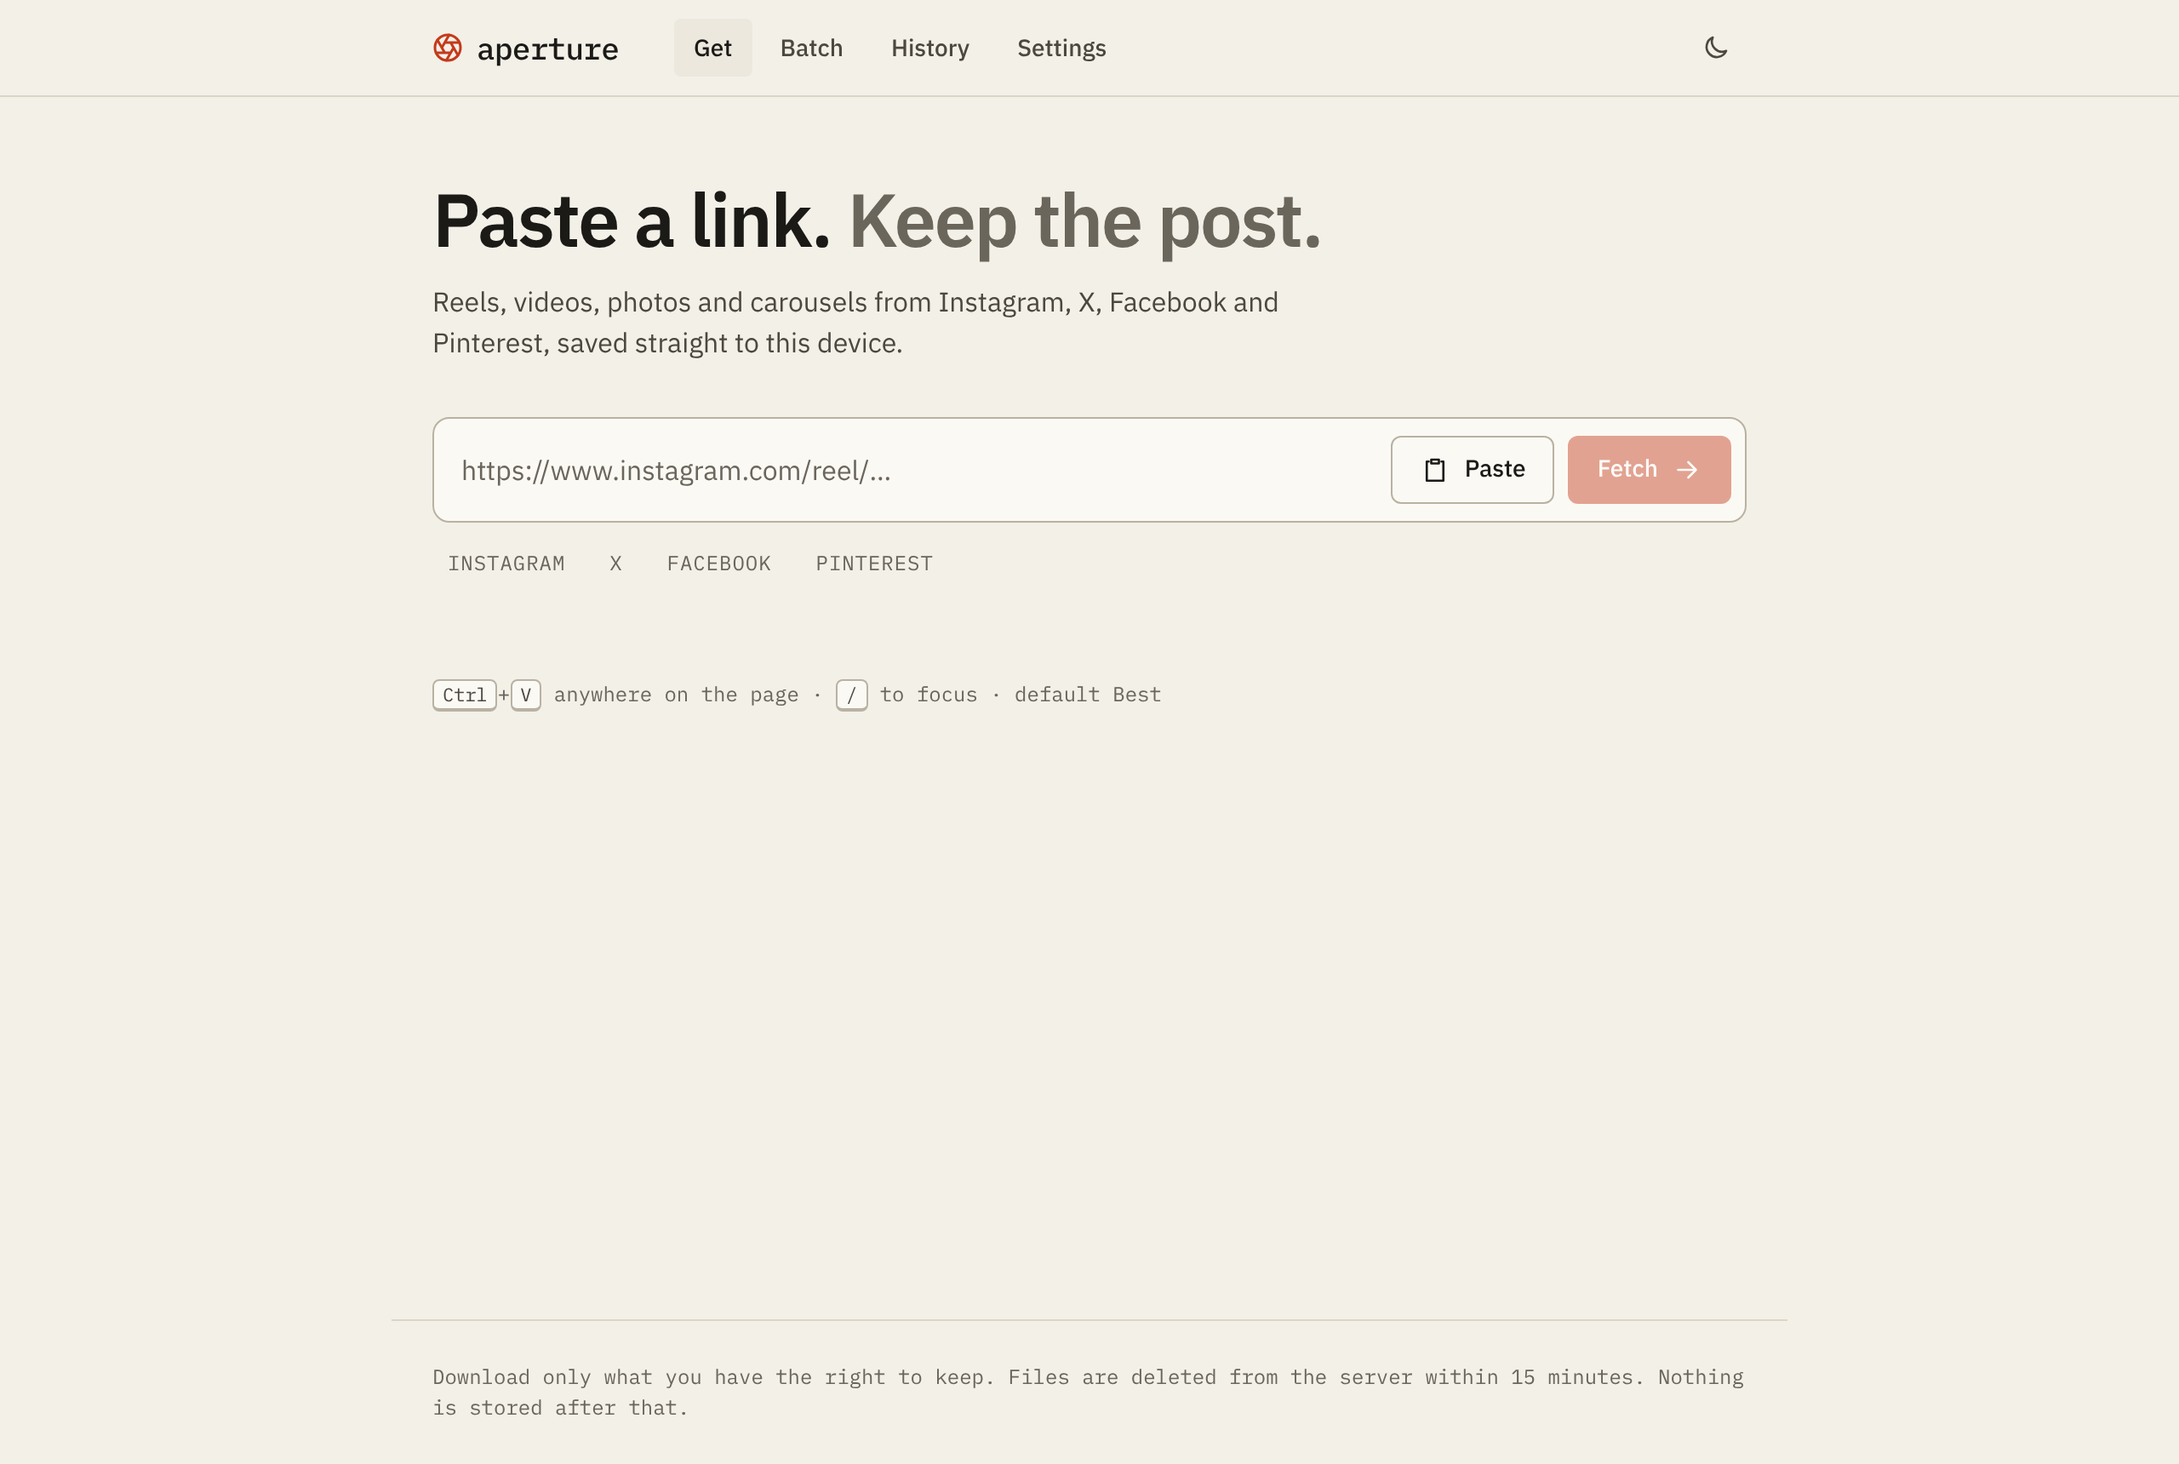
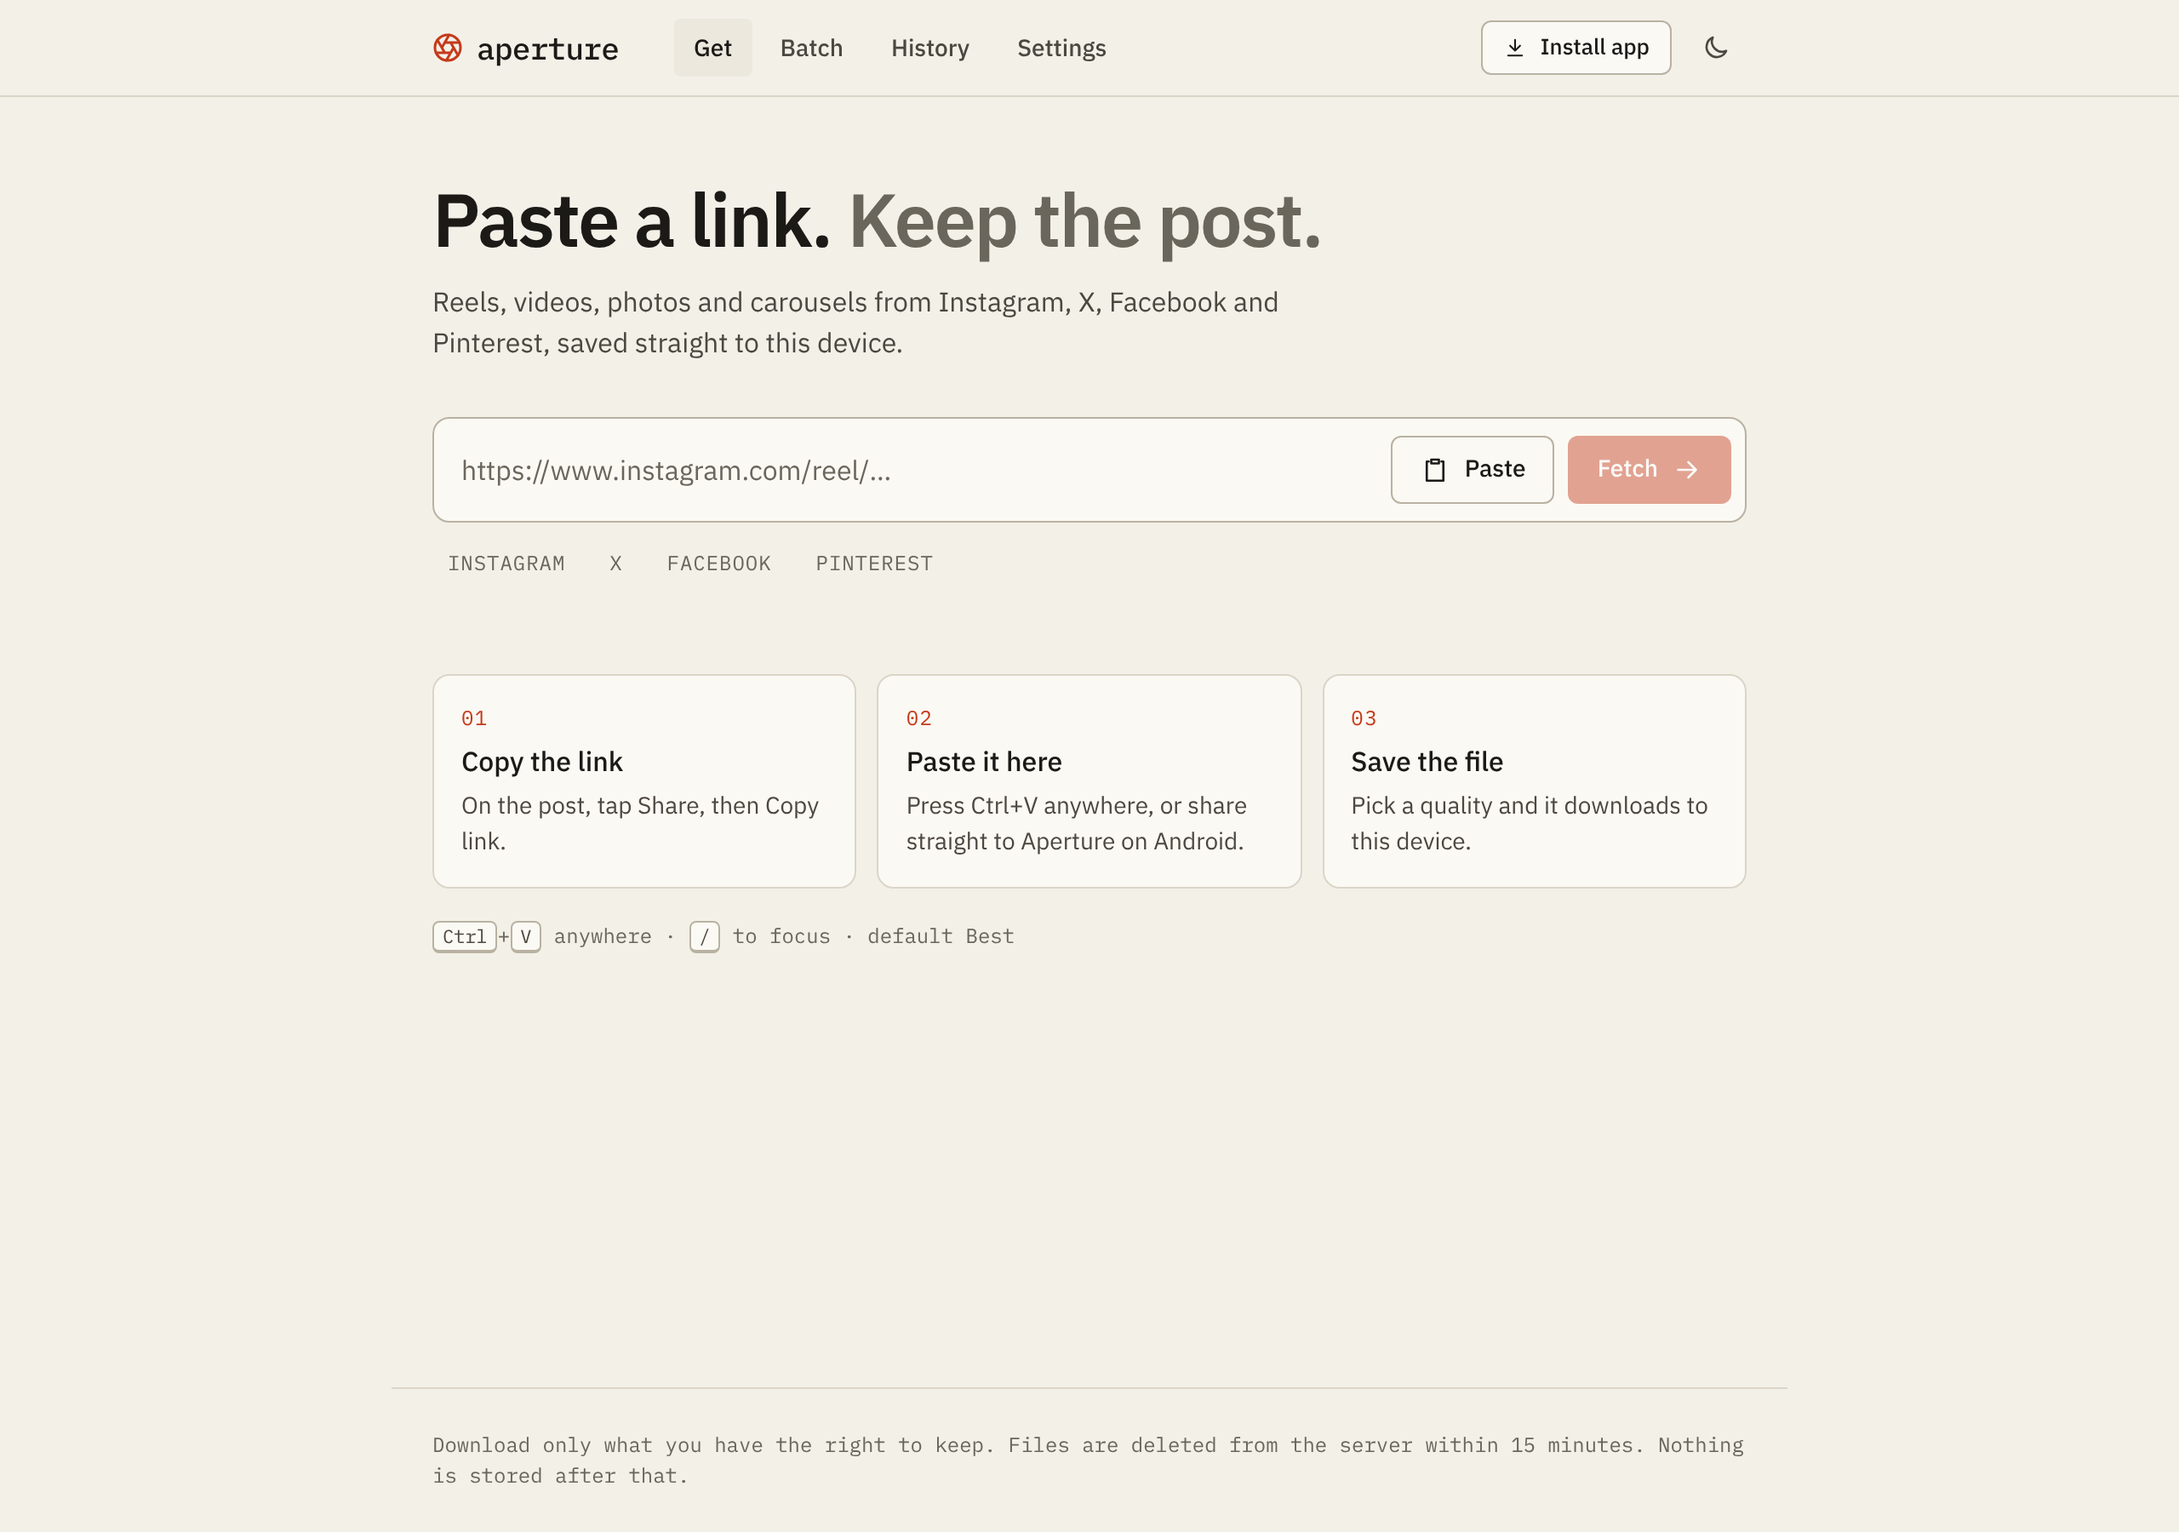
UI polish and richer README
UI:
- Previews hug the image: vertical reels show as tall cards, no grey bars
- 'Install app' button when Brave/Chrome offer installation
- Three-step 'how it works' in the empty state (compact rows on phones)
- Footer: source code and 'report a problem' links

README: animated demo, quick nav, install-as-an-app section, FAQ,
refreshed screenshots

Claude-Session: https://claude.ai/code/session_018MtnHk1n19KBwJH2ow5cQU

diff --git a/web/src/App.tsx b/web/src/App.tsx
@@ -9,6 +9,7 @@ import { LinkForm } from './components/LinkForm'
 import { Notice } from './components/Notice'
 import { ResultSkeleton, ResultView } from './components/ResultView'
 import { SettingsView } from './components/SettingsView'
+import { useInstallPrompt } from './hooks/useInstallPrompt'
 import { useJobs, type TrackedJob } from './hooks/useJobs'
 import { useStoredState } from './hooks/useStoredState'
 import { api, ApiError, type AppInfo, type MediaItem, type Probe, type Session } from './lib/api'
@@ -65,6 +66,7 @@ function Aperture() {
   const [info, setInfo] = useState<AppInfo | null>(null)
   const inputRef = useRef<HTMLInputElement>(null)
   const fetchSeq = useRef(0)
+  const install = useInstallPrompt()
 
   useEffect(() => {
     api.info().then(setInfo).catch(() => {})
@@ -257,13 +259,20 @@ function Aperture() {
               </button>
             ))}
           </nav>
-          <button
-            className="btn-icon btn-quiet theme-toggle"
-            aria-label={darkNow ? 'Switch to light theme' : 'Switch to dark theme'}
-            onClick={() => setSettings((s) => ({ ...s, theme: darkNow ? 'light' : 'dark' }))}
-          >
-            <Icon name={darkNow ? 'sun' : 'moon'} />
-          </button>
+          <div className="topbar-actions">
+            {install && (
+              <button className="btn btn-ghost btn-sm" onClick={install}>
+                <Icon name="download" size={14} /> Install app
+              </button>
+            )}
+            <button
+              className="btn-icon btn-quiet theme-toggle"
+              aria-label={darkNow ? 'Switch to light theme' : 'Switch to dark theme'}
+              onClick={() => setSettings((s) => ({ ...s, theme: darkNow ? 'light' : 'dark' }))}
+            >
+              <Icon name={darkNow ? 'sun' : 'moon'} />
+            </button>
+          </div>
         </div>
       </header>
 
@@ -301,11 +310,30 @@ function Aperture() {
                 />
               )}
               {!loading && !error && !probe && (
-                <p className="tip mono">
-                  <kbd>Ctrl</kbd>+<kbd>V</kbd> anywhere on the page · <kbd>/</kbd> to focus · default{' '}
-                  {QUALITY_LABELS[settings.quality]}
-                  {settings.quickMode ? ' · quick mode on' : ''}
-                </p>
+                <div className="get-empty">
+                  <ol className="steps" aria-label="How it works">
+                    <li>
+                      <span className="step-n mono" aria-hidden="true">01</span>
+                      <strong>Copy the link</strong>
+                      <span>On the post, tap Share, then Copy link.</span>
+                    </li>
+                    <li>
+                      <span className="step-n mono" aria-hidden="true">02</span>
+                      <strong>Paste it here</strong>
+                      <span>Press Ctrl+V anywhere, or share straight to Aperture on Android.</span>
+                    </li>
+                    <li>
+                      <span className="step-n mono" aria-hidden="true">03</span>
+                      <strong>Save the file</strong>
+                      <span>Pick a quality and it downloads to this device.</span>
+                    </li>
+                  </ol>
+                  <p className="tip mono">
+                    <kbd>Ctrl</kbd>+<kbd>V</kbd> anywhere · <kbd>/</kbd> to focus · default{' '}
+                    {QUALITY_LABELS[settings.quality]}
+                    {settings.quickMode ? ' · quick mode on' : ''}
+                  </p>
+                </div>
               )}
             </div>
           </section>
@@ -340,14 +368,19 @@ function Aperture() {
         </p>
         {(info?.contactUrl || info?.repoUrl) && (
           <p className="footer-links">
-            {info?.contactUrl && (
-              <a href={info.contactUrl} target="_blank" rel="noopener noreferrer">
-                Copyright / takedown requests
-              </a>
-            )}
             {info?.repoUrl && (
               <a href={info.repoUrl} target="_blank" rel="noopener noreferrer">
                 Source code
+              </a>
+            )}
+            {info?.repoUrl && (
+              <a href={`${info.repoUrl}/issues/new/choose`} target="_blank" rel="noopener noreferrer">
+                Report a problem
+              </a>
+            )}
+            {info?.contactUrl && (
+              <a href={info.contactUrl} target="_blank" rel="noopener noreferrer">
+                Copyright / takedown
               </a>
             )}
           </p>

diff --git a/web/src/styles.css b/web/src/styles.css
@@ -356,7 +356,10 @@ kbd {
   text-align: center;
 }
 
-.theme-toggle {
+.topbar-actions {
+  display: flex;
+  align-items: center;
+  gap: var(--s2);
   margin-left: auto;
 }
 
@@ -545,6 +548,70 @@ kbd {
   margin-top: var(--s5);
 }
 
+/* empty state: three-step how-to */
+.get-empty {
+  display: flex;
+  flex-direction: column;
+  gap: var(--s4);
+}
+
+.steps {
+  display: grid;
+  grid-template-columns: 1fr;
+  gap: var(--s3);
+  margin: 0;
+  padding: 0;
+  list-style: none;
+}
+
+@media (min-width: 640px) {
+  .steps {
+    grid-template-columns: repeat(3, 1fr);
+  }
+}
+
+/* Phones: compact rows (number beside the text) so the steps don't fill the screen. */
+@media (max-width: 639px) {
+  .steps {
+    gap: var(--s2);
+  }
+  ol.steps > li {
+    display: grid;
+    grid-template-columns: 28px 1fr;
+    column-gap: var(--s2);
+    padding: var(--s3);
+  }
+  ol.steps > li > .step-n {
+    grid-row: span 2;
+    padding-top: 3px;
+  }
+}
+
+.steps li {
+  display: flex;
+  flex-direction: column;
+  gap: var(--s1);
+  padding: var(--s4);
+  border: 1px solid var(--line);
+  border-radius: var(--r-l);
+  background: var(--surface);
+}
+
+.steps strong {
+  font-weight: 500;
+}
+
+.steps li > span:last-child {
+  font-size: 14px;
+  color: var(--ink-2);
+}
+
+.step-n {
+  font-size: 12px;
+  letter-spacing: 0.06em;
+  color: var(--accent);
+}
+
 .tip {
   font-size: 12px;
   color: var(--ink-3);
@@ -605,6 +672,23 @@ kbd {
 .thumb-contain {
   aspect-ratio: 16 / 9;
   max-height: 460px;
+}
+
+/* Once the preview has loaded, the frame hugs the image: tall reels stay tall, no grey side bars. */
+.thumb-contain.is-sized {
+  aspect-ratio: auto;
+  width: fit-content;
+  max-width: 100%;
+  margin-inline: auto;
+  background: none;
+}
+
+.thumb-contain.is-sized img {
+  width: auto;
+  height: auto;
+  max-width: 100%;
+  max-height: 460px;
+  border-radius: var(--r-m);
 }
 
 .thumb-cover {

diff --git a/web/src/components/Thumb.tsx b/web/src/components/Thumb.tsx
@@ -5,15 +5,33 @@ import { Icon } from './Icon'
 
 type Props = { item: MediaItem; fit?: 'contain' | 'cover'; label: string }
 
+/**
+ * Preview image. In "contain" mode the frame shrinks to the image itself, so a vertical reel shows as a
+ * tall card instead of a narrow strip inside a wide grey box. Until the image loads, a 16:9 placeholder
+ * (or the known aspect ratio) holds the space so the layout doesn't jump.
+ */
 export function Thumb({ item, fit = 'contain', label }: Props) {
   const [broken, setBroken] = useState(false)
-  const ratio = item.width && item.height ? `${item.width} / ${item.height}` : undefined
+  const [loaded, setLoaded] = useState(false)
+  const ratio = item.width && item.height ? `${item.width} / ${item.height}` : '16 / 9'
   const kindIcon = item.kind === 'image' ? 'image' : item.kind === 'audio' ? 'music' : 'play'
+  const showImage = Boolean(item.thumbnail) && !broken
+  const sized = fit === 'contain' && showImage && loaded
 
   return (
-    <div className={`thumb thumb-${fit}`} style={fit === 'contain' && ratio ? { aspectRatio: ratio } : undefined}>
-      {item.thumbnail && !broken ? (
-        <img src={item.thumbnail} alt={label} loading="lazy" decoding="async" onError={() => setBroken(true)} />
+    <div
+      className={`thumb thumb-${fit}${sized ? ' is-sized' : ''}`}
+      style={fit === 'contain' && !sized ? { aspectRatio: ratio } : undefined}
+    >
+      {showImage ? (
+        <img
+          src={item.thumbnail ?? undefined}
+          alt={label}
+          loading="lazy"
+          decoding="async"
+          onLoad={() => setLoaded(true)}
+          onError={() => setBroken(true)}
+        />
       ) : (
         <div className="thumb-empty" role="img" aria-label={`${label} (no preview)`}>
           <Icon name={kindIcon} size={28} />

diff --git a/web/src/hooks/useInstallPrompt.ts b/web/src/hooks/useInstallPrompt.ts
@@ -1,0 +1,41 @@
+import { useCallback, useEffect, useState } from 'react'
+
+// Chromium browsers (Chrome, Brave, Edge) fire `beforeinstallprompt` when the PWA is installable.
+type InstallPromptEvent = Event & {
+  prompt: () => Promise<void>
+  userChoice: Promise<{ outcome: 'accepted' | 'dismissed' }>
+}
+
+const isStandalone = () =>
+  typeof window !== 'undefined' &&
+  (window.matchMedia?.('(display-mode: standalone)').matches ||
+    (navigator as Navigator & { standalone?: boolean }).standalone === true)
+
+/** Returns an install() function while the browser offers installation, otherwise null. */
+export function useInstallPrompt() {
+  const [deferred, setDeferred] = useState<InstallPromptEvent | null>(null)
+
+  useEffect(() => {
+    if (isStandalone()) return
+    const onPrompt = (e: Event) => {
+      e.preventDefault() // keep the browser's mini-infobar quiet; we show our own button
+      setDeferred(e as InstallPromptEvent)
+    }
+    const onInstalled = () => setDeferred(null)
+    window.addEventListener('beforeinstallprompt', onPrompt)
+    window.addEventListener('appinstalled', onInstalled)
+    return () => {
+      window.removeEventListener('beforeinstallprompt', onPrompt)
+      window.removeEventListener('appinstalled', onInstalled)
+    }
+  }, [])
+
+  const install = useCallback(async () => {
+    if (!deferred) return
+    await deferred.prompt()
+    await deferred.userChoice.catch(() => null)
+    setDeferred(null) // a prompt event can only be used once
+  }, [deferred])
+
+  return deferred ? install : null
+}

diff --git a/README.md b/README.md
@@ -22,11 +22,23 @@ straight to your phone or computer. No ads, no accounts, no tracking.
 
 <br>
 
-<img src="docs/screenshots/result.png" alt="Aperture showing a video ready to download with quality options" width="760">
+<img src="docs/demo.gif" alt="Demo: pasting a link, previewing a vertical reel, downloading it with a live progress bar" width="760">
+
+<sub>Paste → preview → download. Real app, real progress bar.</sub>
 
 </div>
 
 ---
+
+<p align="center">
+  <a href="#why-aperture">Why</a> ·
+  <a href="#-install-it-as-an-app">Install</a> ·
+  <a href="#how-it-works">How it works</a> ·
+  <a href="#reliability-honestly">Reliability</a> ·
+  <a href="#-run-it-yourself">Self-host</a> ·
+  <a href="#-security">Security</a> ·
+  <a href="#-faq">FAQ</a>
+</p>
 
 ## Why Aperture
 
@@ -74,10 +86,22 @@ Most "downloader" sites are ad farms with fake buttons. Aperture is the opposite
 </table>
 
 <div align="center">
-<img src="docs/screenshots/carousel-dark.png" alt="A three-item carousel in dark mode" width="560">
+<img src="docs/screenshots/result.png" alt="A vertical reel ready to download, with quality options" width="560">
 &nbsp;
-<img src="docs/screenshots/mobile-dark.png" alt="Aperture on a phone" width="190">
+<img src="docs/screenshots/mobile-dark.png" alt="Aperture on a phone in dark mode" width="190">
+<br><br>
+<img src="docs/screenshots/carousel-dark.png" alt="A three-item carousel in dark mode" width="560">
 </div>
+
+## 📲 Install it as an app
+
+Aperture is a Progressive Web App: install it once and it opens like a native app, in its own window, with its own icon.
+
+| Where | How |
+|---|---|
+| **Brave / Chrome on desktop** | Click **Install app** in Aperture's top bar (or the install icon in the address bar) |
+| **Chrome / Brave on Android** | Menu **⋮ → Add to Home screen** (or **Install app**). Aperture then shows up in the **Share** sheet: share a post from Instagram or X straight to it |
+| **Safari on iPhone** | **Share → Add to Home Screen** |
 
 ## How it works
 
@@ -185,7 +209,7 @@ Everything is set with environment variables. The full, commented list is in [`.
 | `APP_PASSCODE` | Locks a private instance behind a passcode |
 | `HOST=0.0.0.0` | Makes it reachable from your phone on the same Wi-Fi |
 
-## 🛡 Security
+## 🔒 Security
 
 - **Allowlisted hosts only.** Lookalike domains, local addresses, `file:` and credentialed URLs are rejected.
 - **No shell, ever.** Extractors run via argument arrays, and visitors can only pick a pre-validated quality id.
@@ -216,6 +240,43 @@ server/src/updater.js    daily extractor auto-update
 web/src/                 React app
 web/public/sw.js         service worker (installable PWA)
 ```
+
+</details>
+
+## ❓ FAQ
+
+<details>
+<summary><b>Is it free? Are there ads or limits?</b></summary>
+
+Free, no ads, no account. The public instance has fair-use limits (500 MB per file, 90-minute videos, 3 downloads at a time per person) so it stays fast for everyone.
+
+</details>
+
+<details>
+<summary><b>Do you keep my downloads or links?</b></summary>
+
+No. Files exist on the server only while you download them and are deleted within minutes. There's no database and no analytics. Your history lives only in your own browser, and you can switch it off in Settings.
+
+</details>
+
+<details>
+<summary><b>Why doesn't it support YouTube or TikTok?</b></summary>
+
+They block requests from cloud servers, so on the public instance they'd fail most of the time. Rather than show broken buttons, they're off. Self-host Aperture at home and set `ENABLED_PLATFORMS` to turn them on.
+
+</details>
+
+<details>
+<summary><b>A link that used to work now fails. What happened?</b></summary>
+
+The platform probably changed something. Aperture updates its extractors every day, and fixes usually land within a few days. Private posts, stories and deleted posts can't be downloaded at all.
+
+</details>
+
+<details>
+<summary><b>Can I download private posts?</b></summary>
+
+Not on the public instance: it never uses anyone's account. On your own self-hosted copy you can add your own cookies (`COOKIES_FILE`) to download posts your account can see.
 
 </details>
 
